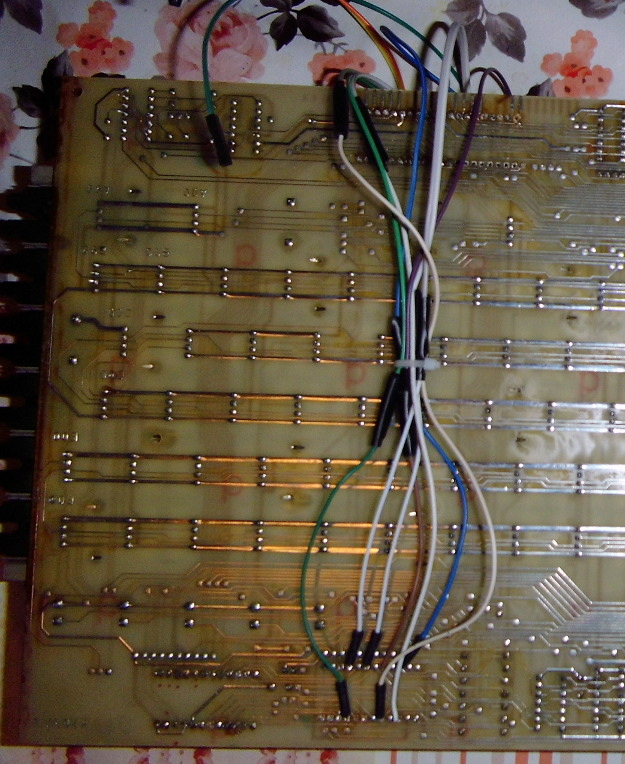
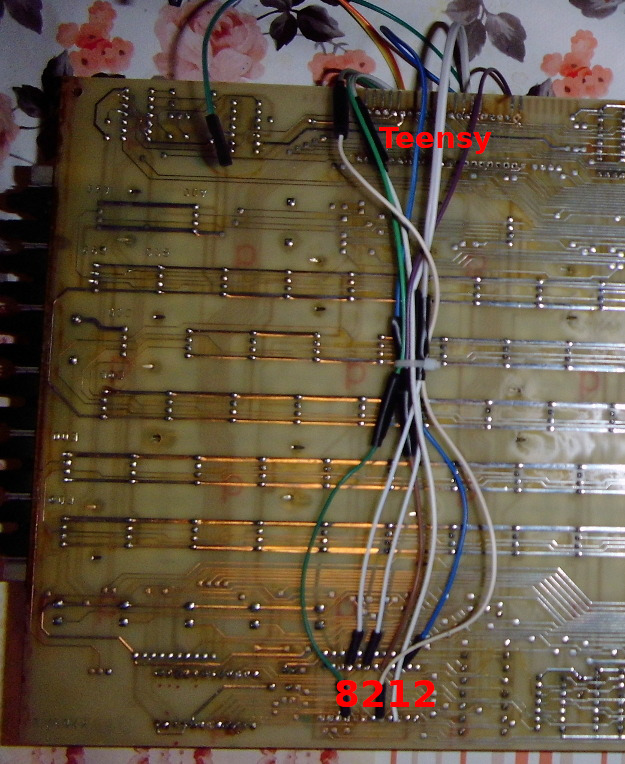
README: documented which chips to cut off from power and how to prepare the Teensy 2.0++

Changed region(s): [[0.608, 0.1505, 0.7904, 0.2107], [0.5168, 0.873, 0.6992, 0.9332]]

diff --git a/README.md b/README.md
@@ -69,20 +69,20 @@ Using pliers, you should be able to pull them off.
 At least for the UB 880 D, all pin holes should be free of solder.
 
 Secondly, you should "neutralize" the following chips - it is sufficient
-to cut their power pins:
+to cut their power pins (see the pointers to the VCC pins):
 
-* The EPROM.
-* __FIXME__
+![Pins to neutralize](pics/neutralize1.jpg) ![Pins to neutralize](pics/neutralize2.jpg)
 
 Now, solder pin headers at least to the following pins on the backside of the
-Teensy 2.0++:
-__FIXME__
+[Teensy 2.0++](docs/teensy 2.0++ pinout.pdf):
+F0-7, E7, B0-2, C0-7, E0-1, D7.
 
 You should also solder pin headers to the following pins of the Teensy's top:
-__FIXME__
+B3-6, D0-3, B7.
+At the bottom - near the reset switch - solder pin headers to VCC, GND and RST.
 
 Solder breadboard wires to the following pins of the Teensy:
-GND (near the USB connector), VCC, E4, E5
+GND (near the USB connector), VCC, E4, E5.
 
 Now, solder the wire from GND into pin 29 of the former UB 880 D,
 the wire from VCC should be soldered to pin 11, the cable from E4 should go
@@ -117,23 +117,23 @@ These wires connect to the Teensy in the following order:
 
 8212 Pin | Teensy Pin
 -------- | ----------
-4        | PB5
-6        | PD1
-8        | PB7
-10       | PB4
-15       | PB6
-17       | PD2
-21       | PD3
+4        | B5
+6        | D1
+8        | B7
+10       | B4
+15       | B6
+17       | D2
+21       | D3
 
 Desolder the buzzer's 390R resistor and connect the side *facing away* from it
 to a jumper cable.
-It will connect to pin PD0 of the Teensy.
+It will connect to pin D0 of the Teensy.
 
 Desolder the IFFS cable.
 
 Connect the VCC, GND and the control pin of the relay using jumper cables with
 the Teensy.
-The control pin should be connected to PB3 of the Teensy.
+The control pin should be connected to B3 of the Teensy.
 
 __FIXME__: How to connect the solenoid.
 
